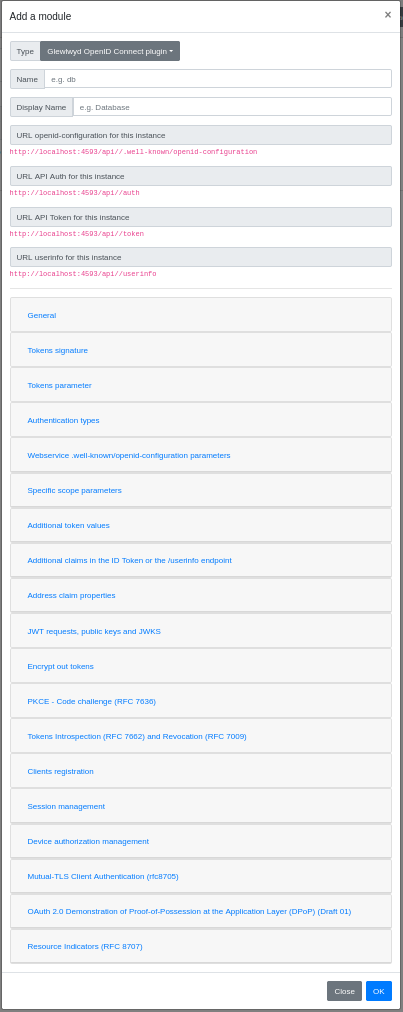
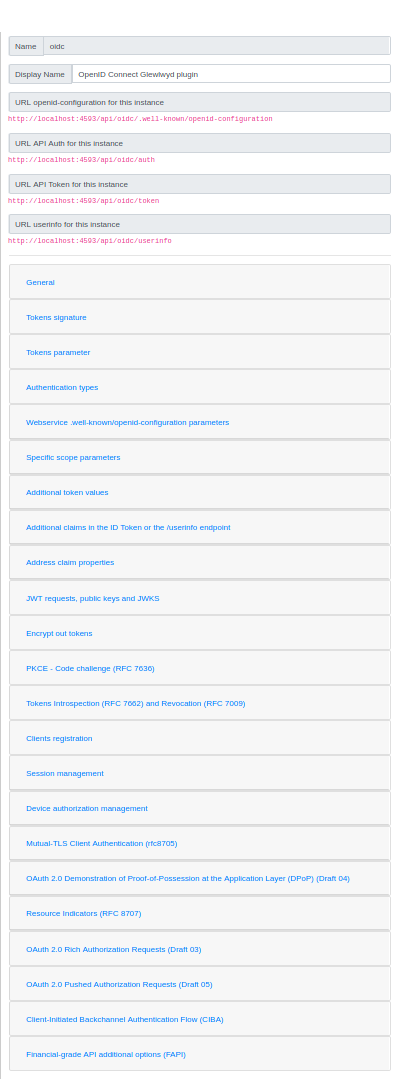
Update oidc plugin documentation

diff --git a/docs/OIDC.md b/docs/OIDC.md
@@ -40,6 +40,9 @@ The following OpenID Connect and OAuth2 functionalities are currently supported:
 - [OAuth 2.0 JWT Secured Authorization Request (JAR)](https://datatracker.ietf.org/doc/html/rfc9101)
 - [OpenID Connect Client-Initiated Backchannel Authentication Flow](https://openid.net/specs/openid-client-initiated-backchannel-authentication-core-1_0.html)
 - [OAuth 2.0 Authorization Server Issuer Identification](https://www.ietf.org/id/draft-ietf-oauth-iss-auth-resp-01.html)
+- [Financial-grade API Security Profile 1.0 - Part 1: Baseline](https://openid.net/specs/openid-financial-api-part-1-1_0-final.html)
+- [Financial-grade API Security Profile 1.0 - Part 2: Advanced](https://openid.net/specs/openid-financial-api-part-2-1_0.html)
+- [Financial-grade API: Client Initiated Backchannel Authentication Profile](https://bitbucket.org/openid/fapi/src/master/Financial_API_WD_CIBA.md)
 
 The following OpenID Connect functionalities are not supported yet:
 
@@ -918,6 +921,44 @@ Click on the following link to accept: {CONNECT_URL}.
 
 Click on the following link to cancel: {CANCEL_URL}
 ```
+
+## Financial-grade API additional options (FAPI)
+
+### Select all below
+
+If this is set to true, all FAPI related options will be set to true and all encryption algorithms will be allowed, except for `dir` and `RSA1_5`.
+
+### Allow JWT responses in /auth (JARM)
+
+If this is set to true, JWT response mode will be allowed.
+
+### Add s_hash in id_token
+
+If this is set to true, the state hash will be added in the id_token payload as `s_hash`.
+
+### Verify nbf property
+
+If this is set to true, the `nbf` parameter will be mandatory in jwt requests and `exp-nbf` must not succeed 60 minutes.
+
+### Allow restricted algs for encryption
+
+If this is set to true, glewlwyd may restrict some algorithms for encryption.
+
+### Allowed algs
+
+Dropdown menu to select allowed encryption algorithms. By design, algorithms `dir` and `RSA1_5` are forbidden in FAPI mode.
+
+### Allow clients with multiple similar kid
+
+If this is set to true, clients with the same kid in its public key set is allowed.
+
+### CIBA allowed clients must be confidential
+
+If this is set to true, clients must be confidential to use CIBA endpoint.
+
+### Push mode forbidden
+
+If this is set to true, clients must use CIBA with poll or ping mode.
 
 ## Native Apps Guidelines
 
